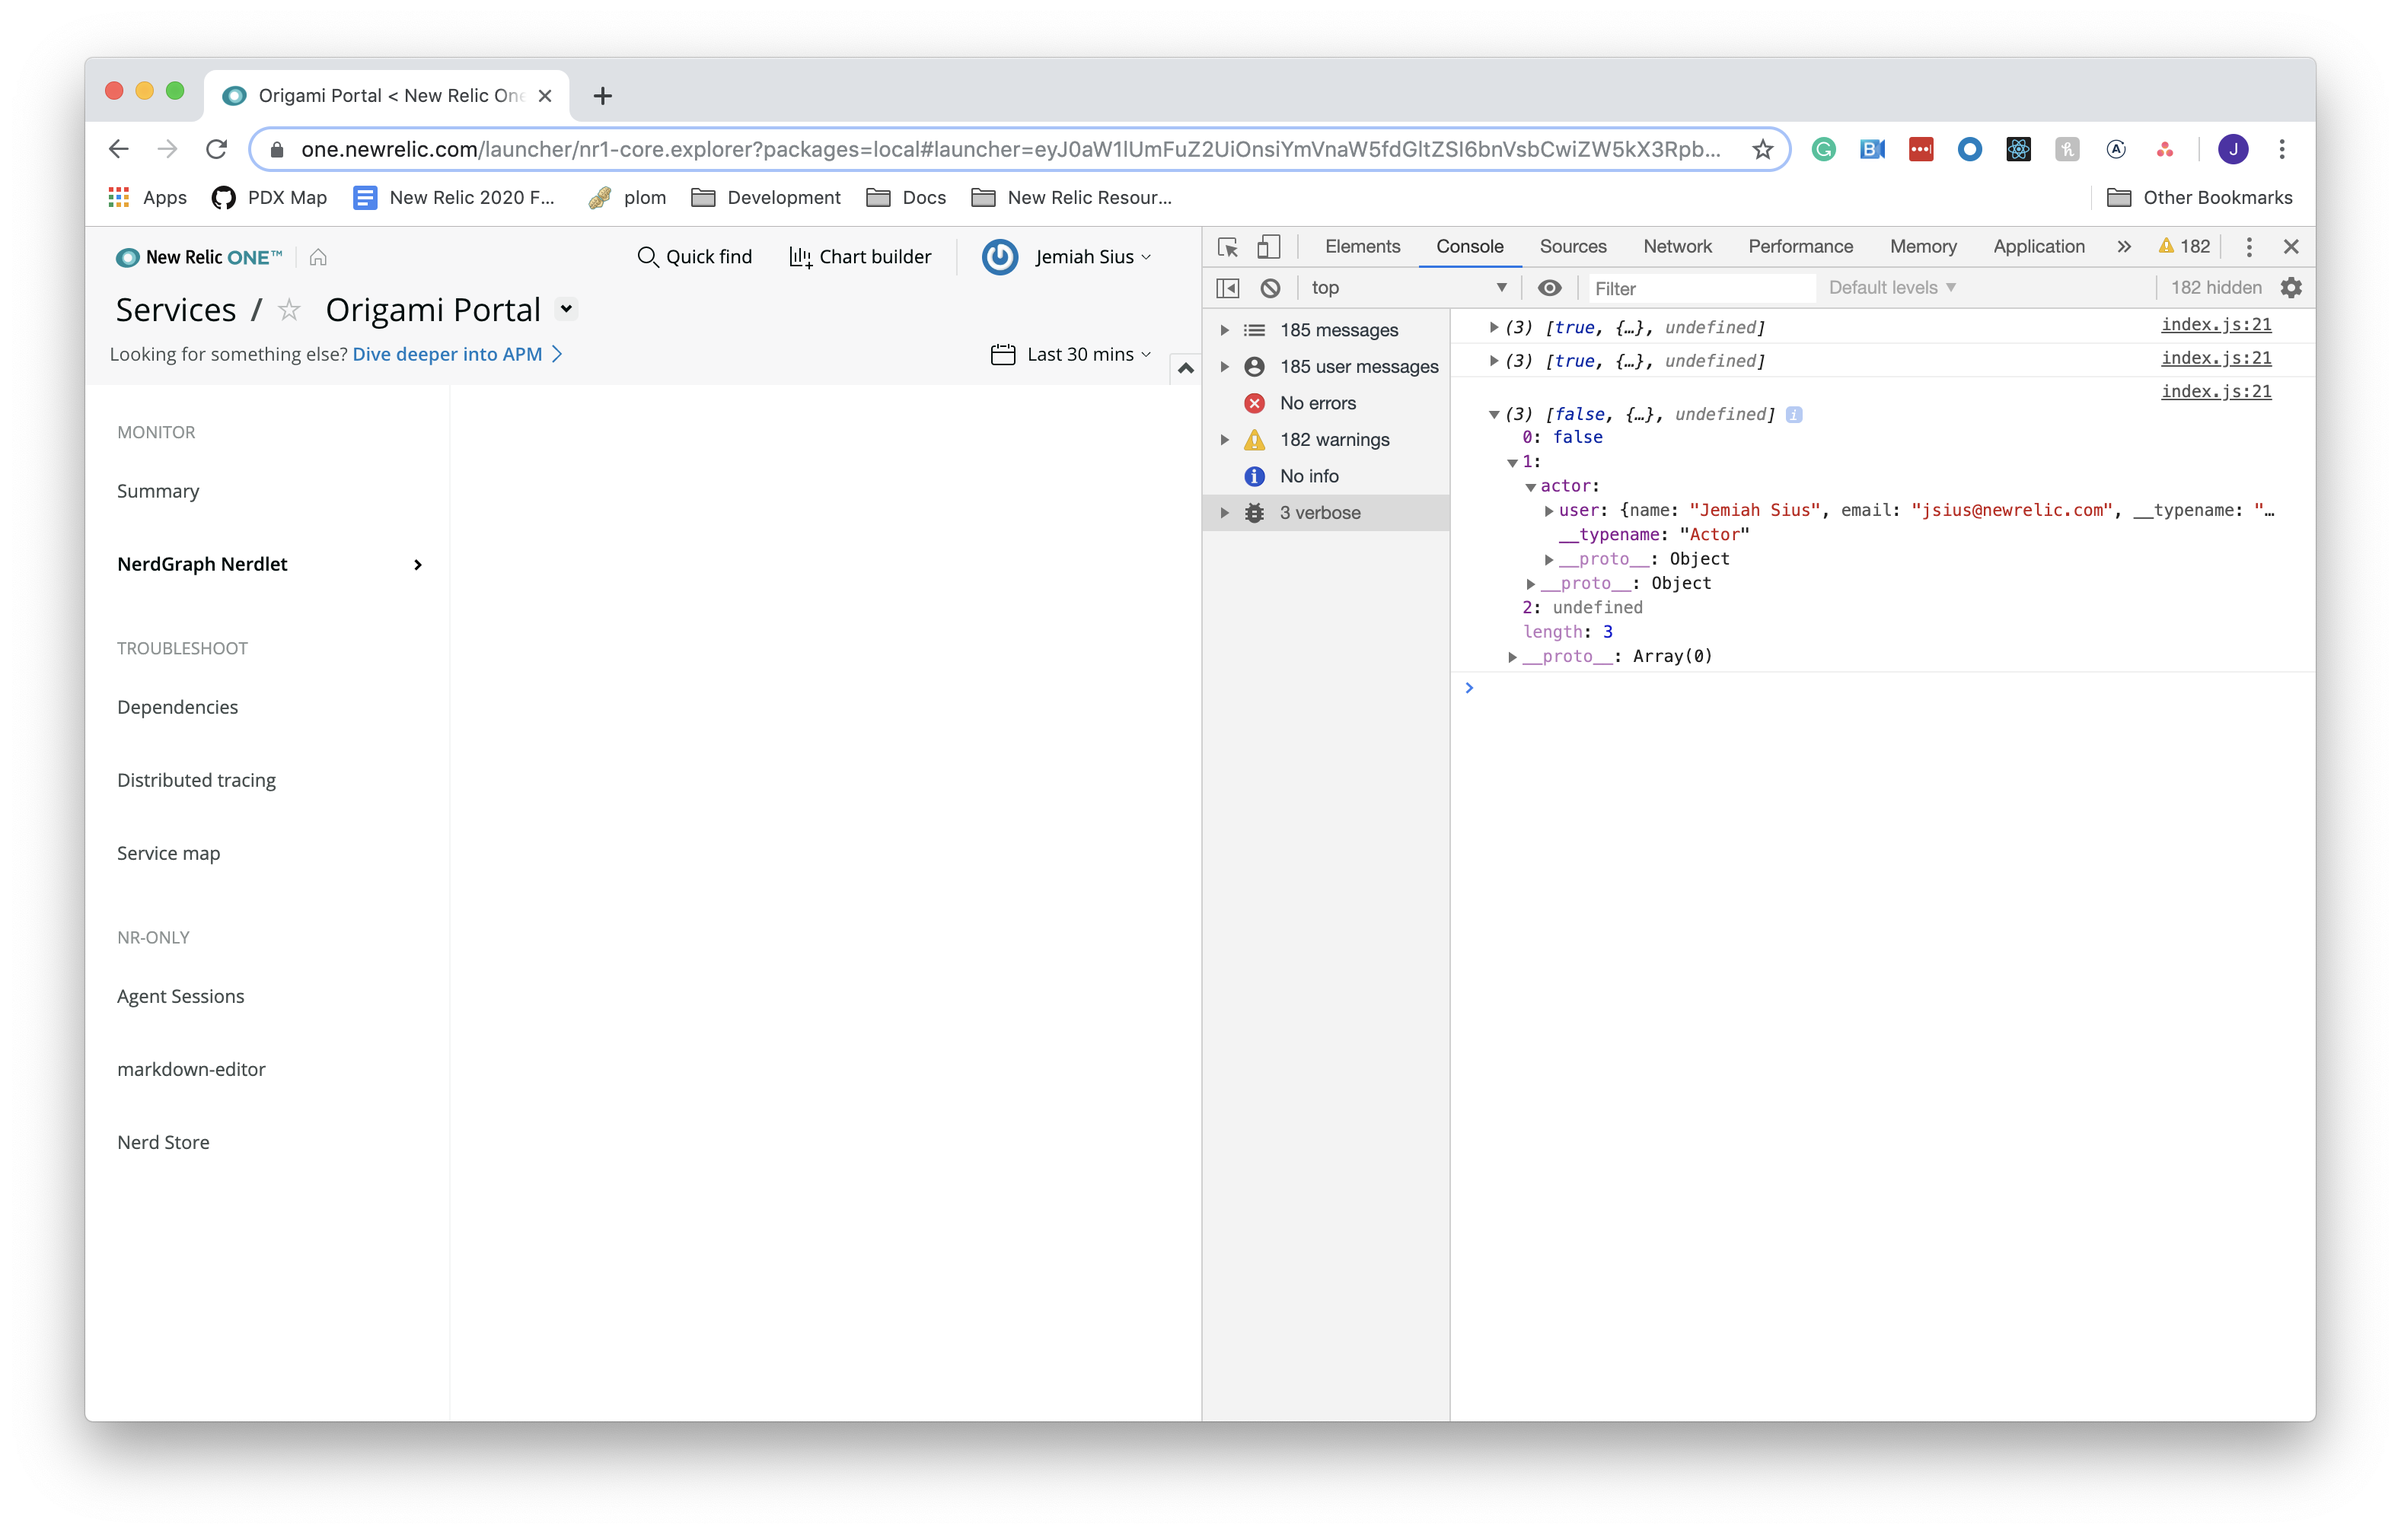
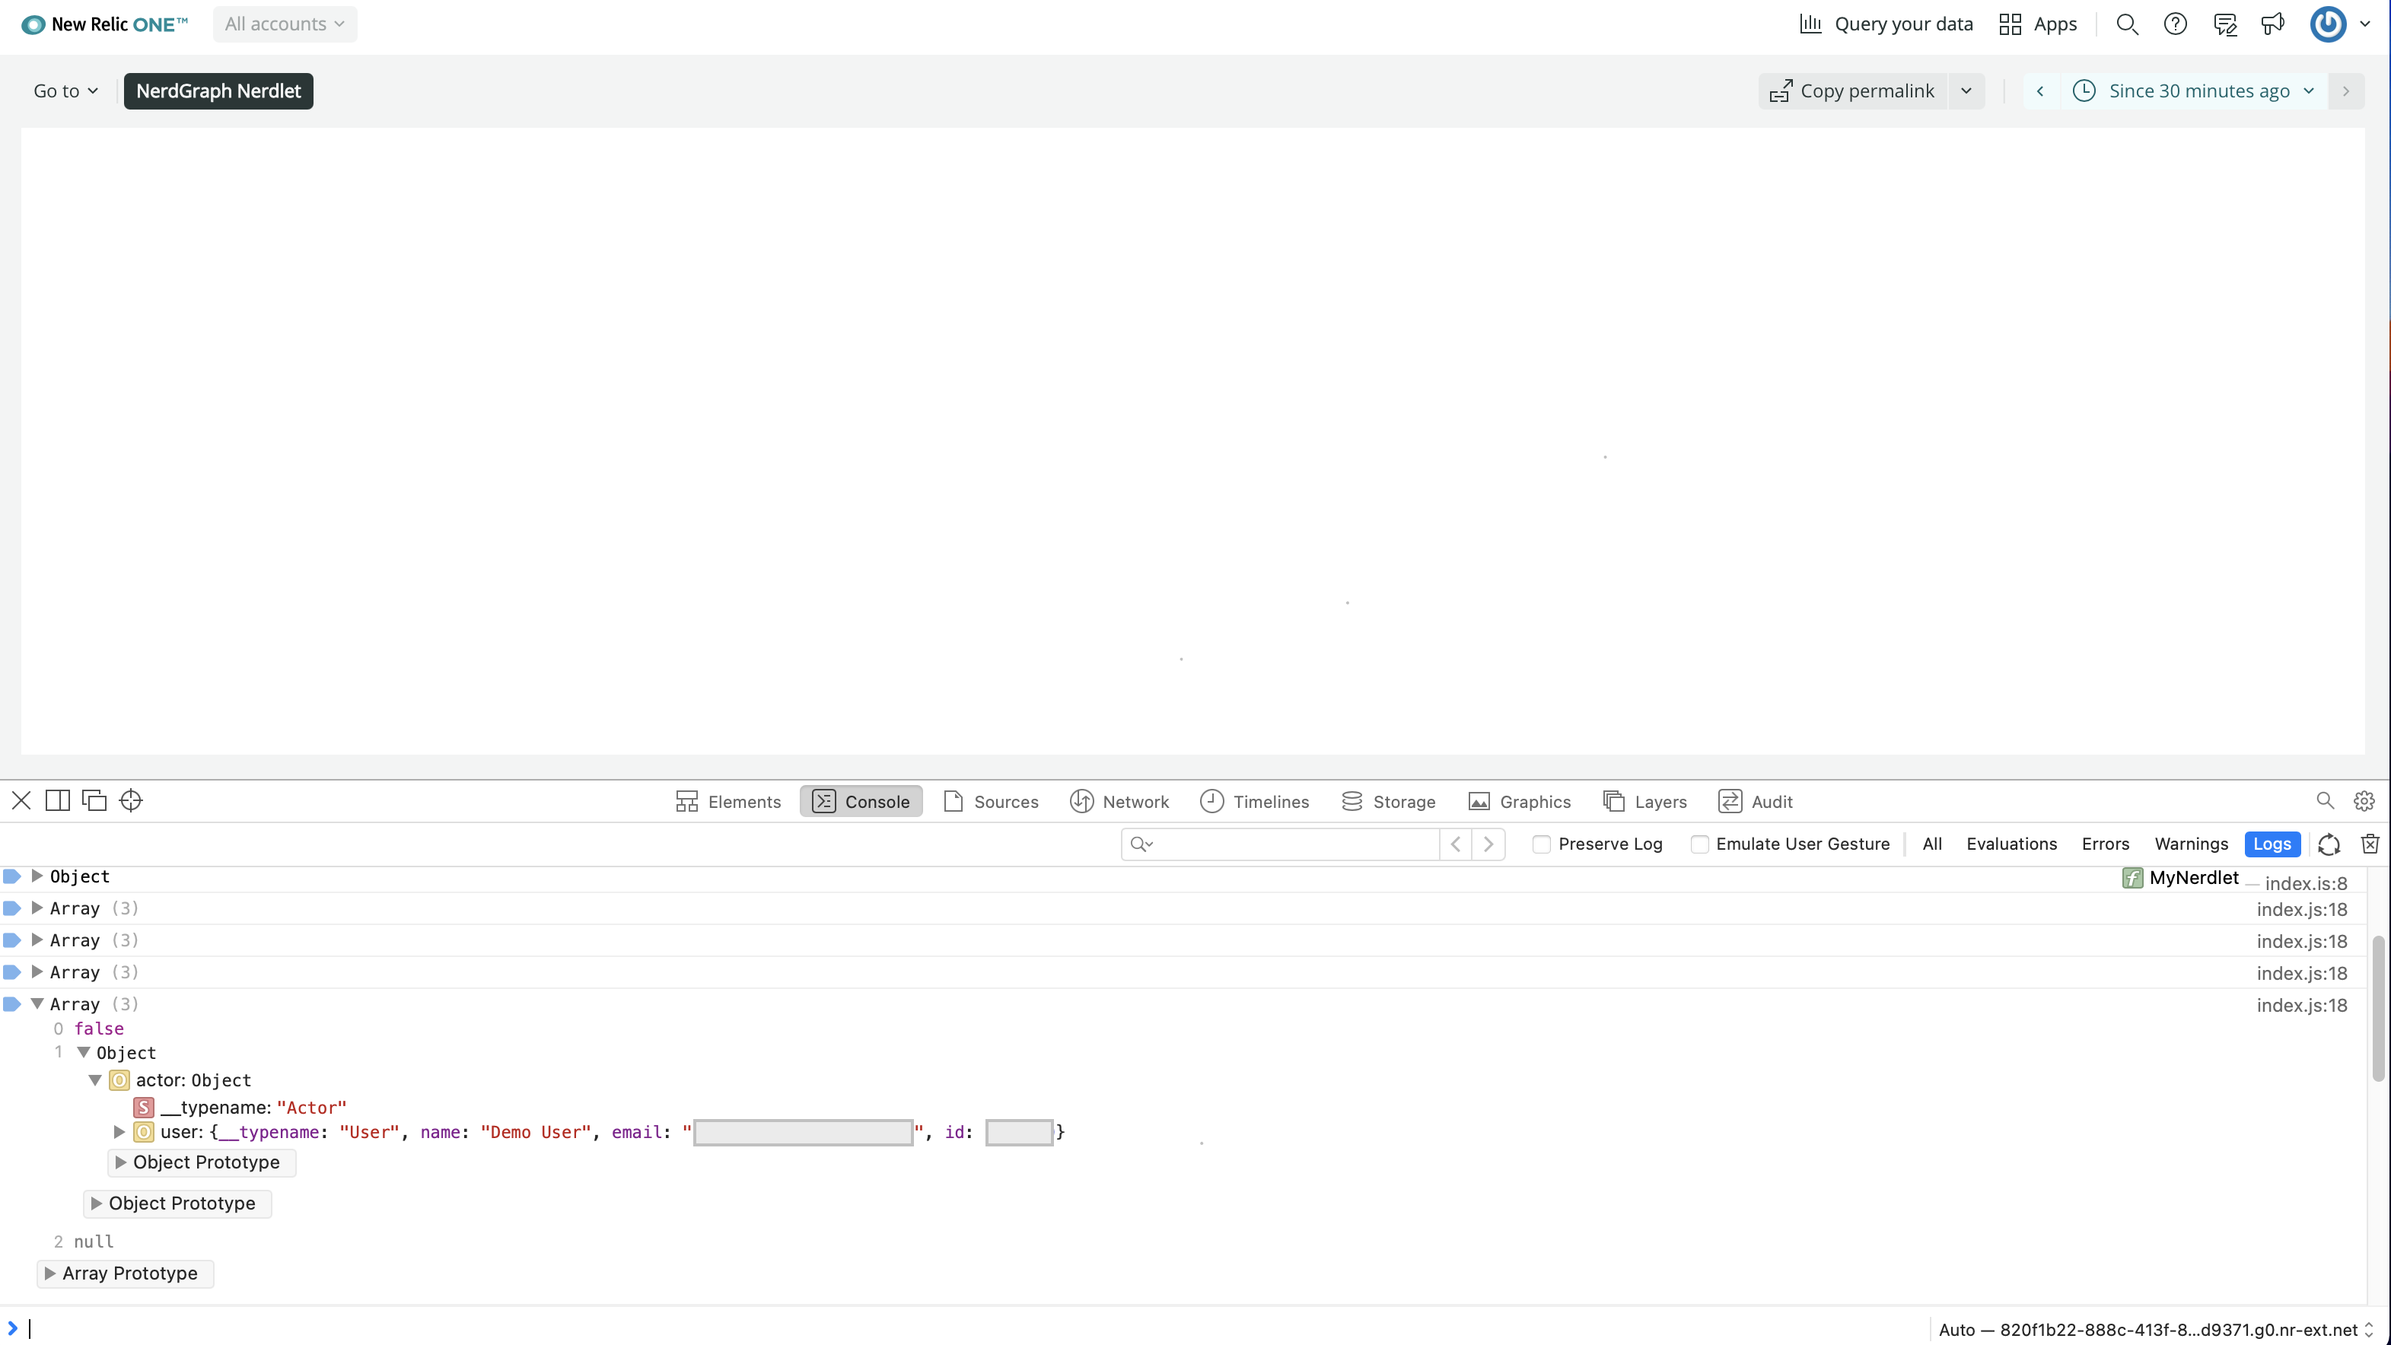
Update screenshot

diff --git a/lab5/nerdlets/my-nerdlet/index.js b/lab5/nerdlets/my-nerdlet/index.js
@@ -1,8 +1,9 @@
-import React, {Fragment} from 'react';
+import React, { Fragment } from 'react';
+import { NerdGraphQuery, EntityByGuidQuery, EntitiesByNameQuery, EntitiesByDomainTypeQuery, EntityCountQuery, Spinner, Stack, StackItem, HeadingText, BlockText, NerdletStateContext } from 'nr1';
 
 export default class MyNerdlet extends React.Component {
 
-    constructor(props){
+    constructor(props) {
         super(props);
         console.debug(props); //eslint-disable-line
         this.state = {
@@ -11,6 +12,14 @@ export default class MyNerdlet extends React.Component {
     }
 
     render() {
-        return (<h1>Hello World lab5!</h1>);
+        return (
+            <NerdGraphQuery query={`{actor {user {name email}}}`}>
+                {({ loading, error, data }) => {
+                    console.debug([loading, data, error]); //eslint-disable-line
+                    return null
+                }}
+            </NerdGraphQuery>
+        )
     }
+
 }
